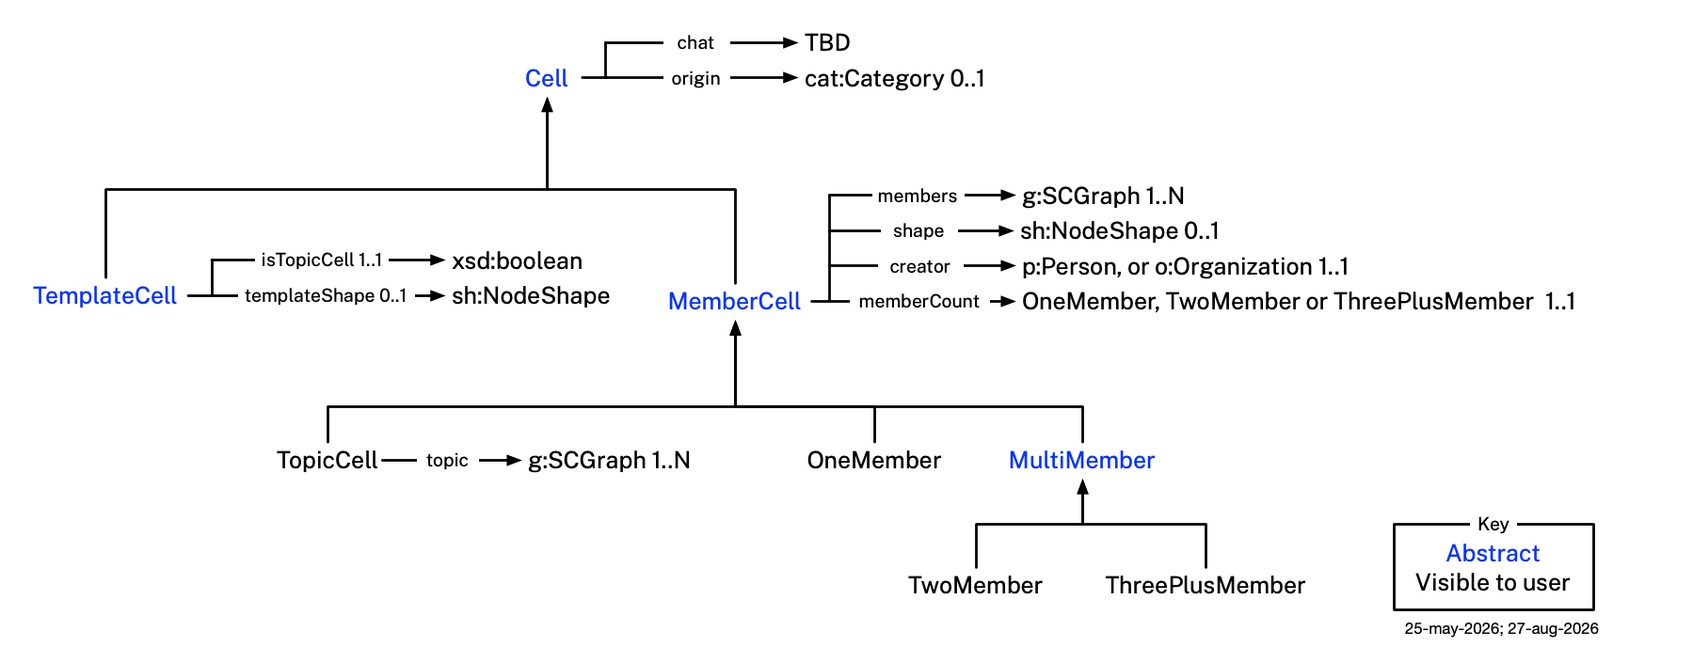
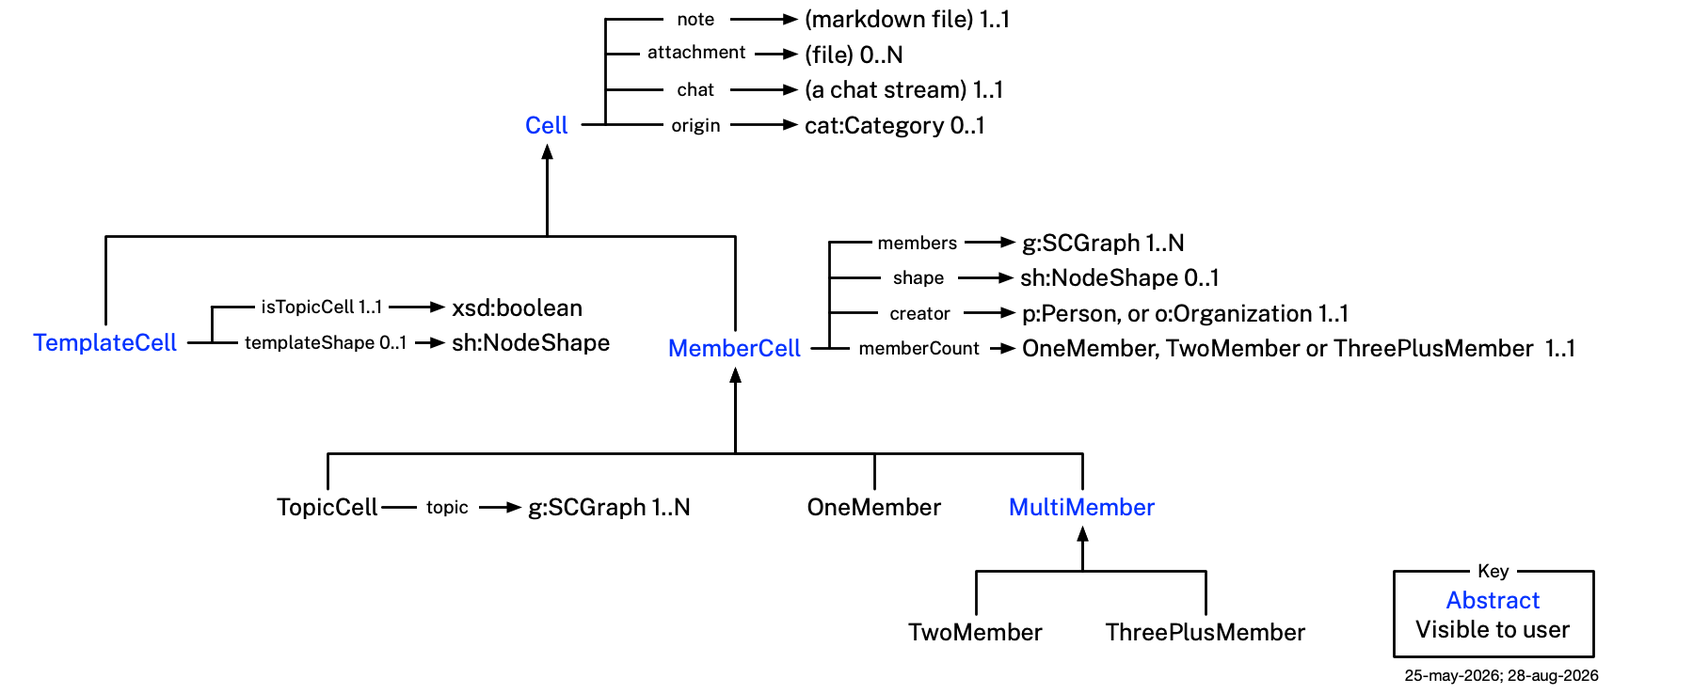
Simplify Files tab to flat Attachments; add c:note/c:attachment/c:chat to Cell Details
- Rename the "Files tab" concept to "Attachments tab" across README.md,
  APP-BEHAVIOR.md, EXAMPLE.md, and CLAUDE.md. A cell's attachments are
  now the plain files found directly inside its own folder, flat like
  email attachments -- no subfolder is ever counted as one, on disk or
  in the model. A subfolder is always either a descendant cell or a
  bare pass-through directory (CLAUDE.md's Check 11), neither shown in
  the Attachments tab.
- Fix README.md's missing "regular file system folder" definition that
  CLAUDE.md's Check 11 had long quoted but never actually existed in
  README.md verbatim.
- Add a new README.md "Cell Details" subsection collecting the three
  documentation-only, non-reified concepts drawn off Cell in
  images/cell-ontology/cell.png's diagram: c:note, c:attachment, and
  c:chat -- none is an actual property in cell.ttl. Update CLAUDE.md's
  Check 12/15 to match the current diagram (which now also fixes a
  stale "TBD" chat box-label reference).
- Rewrite cell.ttl's "Cell Folders and Content" comment block, which
  still described the old recursive "Files Tab" content model and had
  been missed by the earlier rename; bump cell.ttl to 3.40.0.

diff --git a/CLAUDE.md b/CLAUDE.md
@@ -156,7 +156,7 @@ http://www.example.org/mia/graphs/graph-<NN>
 
 **`:Self` IRI convention**: The user's own `persona:Person` individual always uses the IRI `:Self` across all of their graph files. All other people, groups, and organizations are assigned locally-minted named IRIs (e.g. `:Bob_Johnson`, `:Paula_Walker`, `:BHS`). `:Self` is a local IRI and is never exposed externally over the PDN, so there are no collisions between instances of the app. All graph files in the example live in Alice's own instance — some authored by Alice, others received from peers over PDN. In either case, `:Self` refers to Alice. When data arrives from a peer's instance (where that peer was `:Self` in their own instance), Alice's own instance assigns them a locally-minted identifier; once a PDN connection is established, that identifier resolves to or is replaced by their PDN ID.
 
-**Cell/Category split**: A **cell** is the atomic unit of a user's own instance tree: a filesystem folder holding exactly one cell-databook file, folder and file together forming one tree node — cells nest inside cells, forming the tree, with no RDF individual representing the folder as something separate from the cell. A cell's sole DataBook is its `cell-databook` (content: `memberCount`/`subject`/`members`/`topic`/`origin`); there is no sibling `category-databook` file. A cell's **content**, shown in the app's Files tab, is every file and plain subfolder found under its own folder, to any depth, except a nested folder that is itself a cell — such a **descendant cell** is a separate tree node, never counted as part of its ancestor's content even though it physically sits inside the ancestor's folder. The one remaining RDF-level trace of a cell's classification is `cell:origin`, asserted directly on the cell as a class value (e.g. `cat:Passport`) recording the `cat:Category` subclass the cell was originally instantiated as — at most one value (0..1), absent exactly when the cell is of the UserDefined category (identified precisely by its cell-databook filename's `(custom)` disambiguator) — read straight from the cell-databook's own explicit `mia.origin` YAML field when present, fixed at creation and never re-derived from the folder's current name, filename, or position (so a folder can be freely renamed or moved without touching it). `cell:Cell` carries no link back to its own folder at all — `cell.ttl` has no such property, since there is no folder individual distinct from the cell to hold one. **A folder holds at most one cell-databook, never more** — a folder is a cell exactly when it holds one such matching file (its filename an exact copy of the folder's own name), and a folder with none is just a plain filesystem folder, not a cell at all. Two cells can never share a folder: a `cell:Cell` is self-contained, and letting two cells share a folder would risk a single file in that folder becoming ambiguously part of both. A graph DataBook still carries no field pointing back at its cell at all — the cell is the one that asserts the `members`/`topic` link, and the graph id's `(<containing-cell>)` segment names the cell (the human-readable position) that cell-databook lives in directly, not via any RDF lookup. This keeps a cell's content self-contained (aside from the graph files it references) and independent of tree position, for PDN sync robustness: when a cell is shared between peers (e.g. a `TwoMember` cell between Alice and Bob), each peer can independently rearrange their own tree of cells — moving or renesting their cell under a different parent however they like — without ever touching the shared cell's content or identity, since moving a folder in the tree is a pure filesystem operation with no frontmatter field to edit on either side. The cell's own name, by contrast, is part of that shared content, not a per-peer-independent choice — see APP-BEHAVIOR.md's [Naming, Renaming, and Sharing](APP-BEHAVIOR.md#naming-renaming-and-sharing) section for how a shared name is kept unique within each peer's own tree (renaming, receipt-collision suffixing, and first-receipt auto-naming for two-member cells). The *canonical* side of the split (which classes have reusable starter content) lives entirely at the class level — see `category.ttl`'s `cat:templateCell` and the `cell-templates.ttl` file — there is no separate canonical-instance tree.
+**Cell/Category split**: A **cell** is the atomic unit of a user's own instance tree: a filesystem folder holding exactly one cell-databook file, folder and file together forming one tree node — cells nest inside cells, forming the tree, with no RDF individual representing the folder as something separate from the cell. A cell's sole DataBook is its `cell-databook` (content: `memberCount`/`subject`/`members`/`topic`/`origin`); there is no sibling `category-databook` file. A cell's **content** — its **attachments**, shown in the app's Attachments tab — is every plain file found directly inside its own folder; attachments are flat, like email attachments, with no subfolder nesting. Any subfolder found there is never itself an attachment — it's either a **descendant cell** (holds its own cell-databook) — a separate tree node, never counted as part of its ancestor's content even though it physically sits inside the ancestor's folder — or a bare pass-through directory with no databook of its own, existing purely to reach a descendant cell nested deeper still (see Check 11), and likewise never shown in the Attachments tab. The one remaining RDF-level trace of a cell's classification is `cell:origin`, asserted directly on the cell as a class value (e.g. `cat:Passport`) recording the `cat:Category` subclass the cell was originally instantiated as — at most one value (0..1), absent exactly when the cell is of the UserDefined category (identified precisely by its cell-databook filename's `(custom)` disambiguator) — read straight from the cell-databook's own explicit `mia.origin` YAML field when present, fixed at creation and never re-derived from the folder's current name, filename, or position (so a folder can be freely renamed or moved without touching it). `cell:Cell` carries no link back to its own folder at all — `cell.ttl` has no such property, since there is no folder individual distinct from the cell to hold one. **A folder holds at most one cell-databook, never more** — a folder is a cell exactly when it holds one such matching file (its filename an exact copy of the folder's own name), and a folder with none is just a plain filesystem folder, not a cell at all. Two cells can never share a folder: a `cell:Cell` is self-contained, and letting two cells share a folder would risk a single file in that folder becoming ambiguously part of both. A graph DataBook still carries no field pointing back at its cell at all — the cell is the one that asserts the `members`/`topic` link, and the graph id's `(<containing-cell>)` segment names the cell (the human-readable position) that cell-databook lives in directly, not via any RDF lookup. This keeps a cell's content self-contained (aside from the graph files it references) and independent of tree position, for PDN sync robustness: when a cell is shared between peers (e.g. a `TwoMember` cell between Alice and Bob), each peer can independently rearrange their own tree of cells — moving or renesting their cell under a different parent however they like — without ever touching the shared cell's content or identity, since moving a folder in the tree is a pure filesystem operation with no frontmatter field to edit on either side. The cell's own name, by contrast, is part of that shared content, not a per-peer-independent choice — see APP-BEHAVIOR.md's [Naming, Renaming, and Sharing](APP-BEHAVIOR.md#naming-renaming-and-sharing) section for how a shared name is kept unique within each peer's own tree (renaming, receipt-collision suffixing, and first-receipt auto-naming for two-member cells). The *canonical* side of the split (which classes have reusable starter content) lives entirely at the class level — see `category.ttl`'s `cat:templateCell` and the `cell-templates.ttl` file — there is no separate canonical-instance tree.
 
 **Terminology going forward**: the `cat:Category` class hierarchy (`category.ttl`) is a completely separate tree from a user's own instance tree — it's a recommended pattern (`cell:origin`, `cat:templateCell`) that a cell's tree position may optionally follow, not the tree itself. Describe the user's own instance tree only in terms of **cells** and their **descendant cells** — never "folders" or "categories" — except in `APP-BEHAVIOR.md`'s own section on persisting a cell in the filesystem, where "folder" is the correct literal term for the on-disk implementation detail. A heading, check, or script comment that names a filename/tree-position convention after "Category" (e.g. the retired "Category/Cell DataBook Filename Convention" name) is stale leftover from when a separate `category-databook` file type existed (see the Cell/Category split note above) — fix it to name the cell-level concept it actually describes.
 
@@ -403,9 +403,9 @@ for root in ['example/Cells']:
 
 If a `TOO MANY CELLS` issue is found, move the extra file(s) out to their own new folder — a folder may hold only one cell-databook, so a second cell belongs in its own new folder, not alongside the first. An empty/placeholder folder is not necessarily an error — flag it to the user rather than deleting it, since it may be a deliberate placeholder for content not yet added. Cell-databook files routinely carry substantial body content (one `### Graph NN` section per embedded graph) — this is expected and not itself a violation of this check, which only validates folder nesting, not file size or content.
 
-**Check 12 — `cell.ttl` matches `images/cell-ontology/cell.png`**: `Cell` shows only `origin` (to a `cat:Category` box, drawn **0..1**, matching `cell:origin`'s actual cardinality). `cell:origin`'s range is the classificatory `cat:Category` — there is no tree-position class for it to be confused with, so it does not conflict with `cell:Cell`'s "no link to a tree position" design (see `cell:Cell`'s own `rdfs:comment`) — it records what kind of thing a cell is, not where it lives, and needs no `owl:imports category.ttl` (referenced by name only, mirroring `cell:creator`'s identical pattern). The diagram shows a `chat` arrow off `Cell` (to a box literally labeled "TBD") with no counterpart in `cell.ttl` — this is a deliberate, accepted exception to 12a/12b below: README.md already describes `chat`'s intended semantics ("optional path to chat stream") as a planned property, but `cell.ttl` itself has no `cell:chat` declaration yet. No `note` arrow appears off `Cell` — `cell:note` doesn't exist. `Cell` (abstract, blue) carries `origin` only (plus the still-open `chat` arrow above). `Cell` splits into two disjoint kinds (`owl:disjointWith` — a cell is always exactly one, never both): `TemplateCell` (abstract, blue, a reusable class-level template) carries `isTopicCell` (to an `xsd:boolean` box) and `templateShape` (to a `sh:NodeShape` box, 0..1); `MemberCell` (abstract, blue, an actual cell instantiated in a user's own tree) carries `members` (to a `g:SCGraph` box, 1..N, cardinality varying by member count — see Check 17), `shape` (to a `sh:NodeShape` box, 0..1), `creator` (to a union of `p:Person`/`o:Organization`, 1..1), and `memberCount` (to `OneMember`/`TwoMember`/`ThreePlusMember`, 1..1). There is no `subject` arrow off `MemberCell` — `cell:subject` was removed (a cell's subject is now derived from `members`/`topic` rather than stored). Three classes hang directly off `MemberCell` as its children: `OneMember` (concrete, black, no arrows of its own), `MultiMember` (abstract, blue, no arrows of its own — further splitting into `TwoMember`/`ThreePlusMember`, neither of which carries arrows either), and `TopicCell` (concrete, black — a mixin that combines with whichever of `OneMember`/`TwoMember`/`ThreePlusMember` a real cell already has, not a fourth alternative to them), which alone carries `topic` (to a `g:SCGraph` box, 1..N — required, at least one, no upper bound, once a cell is typed `TopicCell` at all). `TemplateCell` has no subclasses of its own, and no individual is ever typed both `TemplateCell` and `MemberCell` (or any `MemberCell`-lineage class, including `TopicCell`) — every template individual in `cell-templates.ttl` is typed solely `TemplateCell`. No arrow points from `Cell`, `TemplateCell`, or `MemberCell` to any tree-position box at all — `cell:origin`'s arrow points to `cat:Category` instead, the classificatory hierarchy. This diagram is the ontology-level (not example-tree) picture of `cell:Cell`'s structure — the member-composition hierarchy and its content-linking properties. Unlike Check 10 (example diagrams, where the diagram always wins), this check does not presume which side is authoritative when the two disagree — surface the discrepancy and ask:
+**Check 12 — `cell.ttl` matches `images/cell-ontology/cell.png`**: `Cell` shows only `origin` (to a `cat:Category` box, drawn **0..1**, matching `cell:origin`'s actual cardinality). `cell:origin`'s range is the classificatory `cat:Category` — there is no tree-position class for it to be confused with, so it does not conflict with `cell:Cell`'s "no link to a tree position" design (see `cell:Cell`'s own `rdfs:comment`) — it records what kind of thing a cell is, not where it lives, and needs no `owl:imports category.ttl` (referenced by name only, mirroring `cell:creator`'s identical pattern). The diagram shows three arrows off `Cell` with no counterpart in `cell.ttl` — `note` (to a placeholder box, `(markdown file) 1..1`), `attachment` (to a placeholder box, `(file) 0..N`), and `chat` (to a placeholder box, `(a chat stream) 0..1`) — this is a deliberate, accepted exception to 12a/12b below: README.md already describes all three properties' intended semantics (see the Cell Details section) as planned, but `cell.ttl` itself has no `cell:note`/`cell:attachment`/`cell:chat` declaration yet — none of the three is ever reified as a triple in any real graph. `Cell` (abstract, blue) carries `origin` only (plus the still-open `note`/`attachment`/`chat` arrows above). `Cell` splits into two disjoint kinds (`owl:disjointWith` — a cell is always exactly one, never both): `TemplateCell` (abstract, blue, a reusable class-level template) carries `isTopicCell` (to an `xsd:boolean` box) and `templateShape` (to a `sh:NodeShape` box, 0..1); `MemberCell` (abstract, blue, an actual cell instantiated in a user's own tree) carries `members` (to a `g:SCGraph` box, 1..N, cardinality varying by member count — see Check 17), `shape` (to a `sh:NodeShape` box, 0..1), `creator` (to a union of `p:Person`/`o:Organization`, 1..1), and `memberCount` (to `OneMember`/`TwoMember`/`ThreePlusMember`, 1..1). There is no `subject` arrow off `MemberCell` — `cell:subject` was removed (a cell's subject is now derived from `members`/`topic` rather than stored). Three classes hang directly off `MemberCell` as its children: `OneMember` (concrete, black, no arrows of its own), `MultiMember` (abstract, blue, no arrows of its own — further splitting into `TwoMember`/`ThreePlusMember`, neither of which carries arrows either), and `TopicCell` (concrete, black — a mixin that combines with whichever of `OneMember`/`TwoMember`/`ThreePlusMember` a real cell already has, not a fourth alternative to them), which alone carries `topic` (to a `g:SCGraph` box, 1..N — required, at least one, no upper bound, once a cell is typed `TopicCell` at all). `TemplateCell` has no subclasses of its own, and no individual is ever typed both `TemplateCell` and `MemberCell` (or any `MemberCell`-lineage class, including `TopicCell`) — every template individual in `cell-templates.ttl` is typed solely `TemplateCell`. No arrow points from `Cell`, `TemplateCell`, or `MemberCell` to any tree-position box at all — `cell:origin`'s arrow points to `cat:Category` instead, the classificatory hierarchy. This diagram is the ontology-level (not example-tree) picture of `cell:Cell`'s structure — the member-composition hierarchy and its content-linking properties. Unlike Check 10 (example diagrams, where the diagram always wins), this check does not presume which side is authoritative when the two disagree — surface the discrepancy and ask:
 
-- **12a** — every property arrow shown off `Cell` (`origin`) has a corresponding `cell:` property in `cell.ttl` with `rdfs:domain cell:Cell` (the diagram's `chat` arrow is the one accepted exception — see above: it's a planned property, not yet added to `cell.ttl`). Every arrow off `TemplateCell` (`isTopicCell`, `templateShape`) has `rdfs:domain cell:TemplateCell`; every arrow off `MemberCell` (`shape`, `creator`, `memberCount`, `members`) has `rdfs:domain cell:MemberCell`; the one arrow off `TopicCell` (`topic`) has `rdfs:domain cell:TopicCell`. No `subject` arrow should appear off `MemberCell` at all — `cell:subject` doesn't exist (see Check 12's own note above). `OneMember` and `MultiMember` should show no arrows of their own — neither carries a property. Each arrow's target type in the diagram must match the property's `rdfs:range` — `members`'s and `topic`'s are both `g:SCGraph`, `isTopicCell`'s is `xsd:boolean`, `creator`'s is the union of `p:Person`/`o:Organization`, `memberCount`'s is `cell:MemberCell` itself (value is the concrete subclass, not `xsd:string`), `origin`'s is `cat:Category` itself (value is the concrete leaf subclass, e.g. `cat:Others`, not `xsd:string` — the same class-value-punning pattern as `memberCount`), `templateShape`'s and `shape`'s are both `sh:NodeShape` — two separate arrows from two different boxes (`TemplateCell` vs `MemberCell`) to what may be drawn as the same target, since they're two distinct properties, not one property under two names. No `note` arrow should appear off `Cell` at all.
+- **12a** — every property arrow shown off `Cell` (`origin`) has a corresponding `cell:` property in `cell.ttl` with `rdfs:domain cell:Cell` (the diagram's `note`, `attachment`, and `chat` arrows are the three accepted exceptions — see above: all three are planned properties, not yet added to `cell.ttl`). Every arrow off `TemplateCell` (`isTopicCell`, `templateShape`) has `rdfs:domain cell:TemplateCell`; every arrow off `MemberCell` (`shape`, `creator`, `memberCount`, `members`) has `rdfs:domain cell:MemberCell`; the one arrow off `TopicCell` (`topic`) has `rdfs:domain cell:TopicCell`. No `subject` arrow should appear off `MemberCell` at all — `cell:subject` doesn't exist (see Check 12's own note above). `OneMember` and `MultiMember` should show no arrows of their own — neither carries a property. Each arrow's target type in the diagram must match the property's `rdfs:range` — `members`'s and `topic`'s are both `g:SCGraph`, `isTopicCell`'s is `xsd:boolean`, `creator`'s is the union of `p:Person`/`o:Organization`, `memberCount`'s is `cell:MemberCell` itself (value is the concrete subclass, not `xsd:string`), `origin`'s is `cat:Category` itself (value is the concrete leaf subclass, e.g. `cat:Others`, not `xsd:string` — the same class-value-punning pattern as `memberCount`), `templateShape`'s and `shape`'s are both `sh:NodeShape` — two separate arrows from two different boxes (`TemplateCell` vs `MemberCell`) to what may be drawn as the same target, since they're two distinct properties, not one property under two names. No `note` arrow should appear off `Cell` at all.
 - **12b** — every `cell:` property defined in `cell.ttl` appears as an arrow in the diagram, under the box matching its domain — `Cell`, `TemplateCell`, `MemberCell`, or `TopicCell` (catches new properties added to the ttl but never drawn, or drawn under the wrong box).
 - **12c** — the class hierarchy `Cell` → `TemplateCell`/`MemberCell` (both abstract, `owl:disjointWith` one another), and separately `MemberCell` → `OneMember`, `MemberCell` → `MultiMember` (abstract) → `TwoMember`/`ThreePlusMember`, and `MemberCell` → `TopicCell`, shown in the diagram matches `cell.ttl`'s actual `rdfs:subClassOf` relationships (by class local name, not just position). `OneMember`, `MultiMember`, and `TopicCell` must all be drawn as direct children of `MemberCell`, not of `Cell` — `TopicCell` in particular is a mixin sibling of `OneMember`/`MultiMember`, not a fourth member-count alternative folded into that same branch.
 - **12d** — `cell.png` draws only the bare class local names (`OneMember`, `TwoMember`, `ThreePlusMember`, `TopicCell`) as box labels; no `cell:label` display string appears anywhere in this diagram. `cell:label` wording is instead verified where it's actually drawn — in the 11 example diagrams (Check 10f) and in `cat-cell-graph.png`/`images/folder-mapping.png`'s border-style legend entries (Checks 15/20). `cell:label` itself is a real class-level default display name defined in `cell.ttl` — `Cell`, `TemplateCell`, `MemberCell`, and `MultiMember` are all abstract and carry no `cell:label` of their own; `TopicCell`, though concrete, carries no `cell:label` either, since it's never solely responsible for a cell box's border style (Check 10f) — that's still driven entirely by the cell's member-count class.
@@ -431,7 +431,7 @@ If a `TOO MANY CELLS` issue is found, move the extra file(s) out to their own ne
   - `BHS` (tan/`Person` fill, black text — origin `(Affiliations)` ≠ folder name, rounded corners/double border (`cell:ThreePlusMember`), three circles (Self white, Bob green, BHS green — its three `c:members`) plus one green square (BHS's own organization profile, linked via `cell:topic`) — illustrative only, not tied to real cell-01 data (which has no `cell:topic` value at all, see Check 18)
   - `People` (tan/`Person` fill, green text — no origin parenthetical shown, correctly compressed since the origin's label already equals the folder name, square corners/single border (`cell:OneMember`), one white "Self" circle, no squares)
 
-  Each cell box shows no icon of any kind — no folder icon and no separate "chat" icon (see Check 12's `cell:chat` planned-property note, which concerns `cell.png` only, not this diagram) — just the filled box itself. Re-verify each box's circles/squares remain a valid illustration of the properties and cardinalities described in the Cell and Graph Ontology sections of `README.md` after any change to those properties.
+  Each cell box shows no icon of any kind — no folder icon and no separate "note", "attachment", or "chat" icon (see Check 12's `cell:note`/`cell:attachment`/`cell:chat` planned-property note, which concerns `cell.png` only, not this diagram) — just the filled box itself. Re-verify each box's circles/squares remain a valid illustration of the properties and cardinalities described in the Cell and Graph Ontology sections of `README.md` after any change to those properties.
 
 **Check 16 — IRI roots: `mee.foundation/ontologies` for foundational files, `www.example.org` for example data**: Every foundational ontology and SHACL shapes file — `persona.ttl`, `graph.ttl`, `cell.ttl`, `category.ttl`, `cell-templates.ttl`, `pdn-identity.ttl`, `organization.ttl`, `persona-templates.ttl`, their `*-shacl.ttl` companions (including `cell-templates-shacl.ttl`), and the per-template files in `shacl/` — must declare its `owl:Ontology` IRI under `http://mee.foundation/ontologies/`. There is no separate canonical category/cell DataBook tree to check — the canonical tree's IRI roots are covered by `category.ttl`/`cell-templates.ttl` themselves. Every DataBook under `example/Cells/` (excluding `under-development/`) represents Alice's own example instance data, so both its own `id:` and every `mia.graphs[].id` value it carries must be grounded under `http://www.example.org/` — `https://` is deliberately rejected here, not just accepted alongside it, since every identifier in the example tree (cell ids and graph ids alike) was standardized on the plain `http://` scheme for consistency; a stray `https://` is exactly the kind of drift this check exists to catch. Run:
 

diff --git a/APP-BEHAVIOR.md b/APP-BEHAVIOR.md
@@ -50,9 +50,9 @@ A cell's own **name** — its filesystem folder's own name — is a separate, pu
 
 <p align="center"><img src="images/folder-mapping.png" alt="Cells, categories, and graphs"></p>
 
-- Every file and non-cell subfolder found inside a cell's folder — to any depth — that is not itself a descendant cell (see below) is that cell's own content, shown in the app's Files tab, and travels with the cell when it's shared. A nested folder that is itself a cell (i.e. holds its own cell DataBook) is a **descendant cell** — a separate node in the tree — and is never counted as part of its ancestor's content, even though it physically sits inside the ancestor's folder.
+- Every plain file found directly inside a cell's own folder is that cell's own content — its **attachments**, shown in the app's **Attachments tab** — and travels with the cell when it's shared. Attachments are flat: no subfolder is ever counted as one. A subfolder found inside a cell's own folder is always either (a) a **descendant cell** (i.e. holds its own cell DataBook) — a separate node in the tree, never counted as part of its ancestor's content even though it physically sits inside the ancestor's folder — or (b) a bare pass-through directory with no DataBook of its own, existing only to reach a descendant cell nested deeper still (see CLAUDE.md's Check 11); neither kind ever appears in the Attachments tab. On narrow/mobile layouts the tab shows only its 📎 icon, with no text label, since "Attachments" doesn't fit.
 - One special file is the cell's **cell DataBook** (a `.databook.md` file with `type: cell-databook`) — see above for why a folder can never hold more than one. A cell DataBook's *filename* matches its own folder's name verbatim, with each space replaced by a hyphen (spaces are illegal inside a raw Turtle IRI), and its `title:` field is exactly the folder's own name — the cell's name — updated whenever the folder is renamed. Its `id`, by contrast, is a flat, opaque `cell-<NN>` value independent of the folder name (see CLAUDE.md's Check 9), the same pattern graph ids already use.
-- Another special file acts as the cell's **note**, shown in the app's Note tab. A cell has exactly one note, never more — this so-called *folder note* is stored as a single file named `X.md` inside the `X` folder, and a folder can hold no second `.md` file playing this role. Using the same name as the folder matches the convention used by PKM (Personal Knowledge Management) tools such as Obsidian (using the Folder Notes plugin), Logseq, Foam and others — including the same freeform, vault-wide linking these tools support: a folder note may link to any other note anywhere in the user's tree of cells, not just within its own cell. Once a link's target has actually been instantiated as a cell (see [Wikilink-Triggered Cell Creation](#wikilink-triggered-cell-creation) below for the one case where it hasn't been yet), the link resolves by that target cell's own stable id — not by matching its display text. That id must actually be globally unique across every user's independent tree, not merely unique within one person's own tree: the small sequential `cell-<NN>` convention this repo's own example data uses (CLAUDE.md's Check 9) is deliberately simple for one worked example living entirely under a single shared example domain, and was never meant to stay unique once real cells belong to many different users' independent instances. A real cell's id therefore needs actual entropy: a random (v4) UUID, generated locally by the creating device/app at the moment of cell creation, with no central coordination or registry of any kind — consistent with [Storage](#storage) above (no cell, and nothing about it, is ever held by a cloud provider or third party) and with `:Self`'s own purely-local identifier convention (see CLAUDE.md's [`:Self` IRI convention](CLAUDE.md#key-architectural-patterns)). A random UUID carries no embedded metadata — unlike a time-ordered (v7) UUID, which would leak a cell's creation time to anyone who later sees its id, including a peer the cell gets shared with. This keeps the same flat, opaque shape Check 9 already establishes (never derived from the cell's own name or category). Concretely, a resolved link is written using the alias syntax these same PKM tools already support — `[[7f3a9c2e-…|foo]]`, id before the pipe, display text after — rather than inventing new syntax; an unresolved link with no target yet (see below) is simply `[[foo]]`, no pipe at all. A link's own display text travels with the cell's note when the cell is shared, but resolution never falls back to text-matching. This matters because cell names are only unique among siblings, not globally (see [Naming, Renaming, and Sharing](#naming-renaming-and-sharing) above) — a recipient's own tree can easily contain an unrelated cell that happens to share a display name with the intended target, and id-based resolution is what keeps a link from ever silently jumping to that wrong cell instead. What id-based resolution can't fix is the linked-to cell itself not traveling with the note: if the target lies outside this cell's own boundary (i.e. it isn't part of this cell's own Files-tab content or its own folder note) and the recipient doesn't independently have a cell carrying that id — because it was never shared with them, or they organize their tree completely differently — the link simply won't resolve on their side; it fails closed (inert, shown as unresolved) rather than open (silently pointing somewhere else). This is an accepted limitation of cross-cell linking, not a defect.
+- Another special file acts as the cell's **note**, shown in the app's Note tab. A cell has exactly one note, never more — this so-called *folder note* is stored as a single file named `X.md` inside the `X` folder, and a folder can hold no second `.md` file playing this role. Using the same name as the folder matches the convention used by PKM (Personal Knowledge Management) tools such as Obsidian (using the Folder Notes plugin), Logseq, Foam and others — including the same freeform, vault-wide linking these tools support: a folder note may link to any other note anywhere in the user's tree of cells, not just within its own cell. Once a link's target has actually been instantiated as a cell (see [Wikilink-Triggered Cell Creation](#wikilink-triggered-cell-creation) below for the one case where it hasn't been yet), the link resolves by that target cell's own stable id — not by matching its display text. That id must actually be globally unique across every user's independent tree, not merely unique within one person's own tree: the small sequential `cell-<NN>` convention this repo's own example data uses (CLAUDE.md's Check 9) is deliberately simple for one worked example living entirely under a single shared example domain, and was never meant to stay unique once real cells belong to many different users' independent instances. A real cell's id therefore needs actual entropy: a random (v4) UUID, generated locally by the creating device/app at the moment of cell creation, with no central coordination or registry of any kind — consistent with [Storage](#storage) above (no cell, and nothing about it, is ever held by a cloud provider or third party) and with `:Self`'s own purely-local identifier convention (see CLAUDE.md's [`:Self` IRI convention](CLAUDE.md#key-architectural-patterns)). A random UUID carries no embedded metadata — unlike a time-ordered (v7) UUID, which would leak a cell's creation time to anyone who later sees its id, including a peer the cell gets shared with. This keeps the same flat, opaque shape Check 9 already establishes (never derived from the cell's own name or category). Concretely, a resolved link is written using the alias syntax these same PKM tools already support — `[[7f3a9c2e-…|foo]]`, id before the pipe, display text after — rather than inventing new syntax; an unresolved link with no target yet (see below) is simply `[[foo]]`, no pipe at all. A link's own display text travels with the cell's note when the cell is shared, but resolution never falls back to text-matching. This matters because cell names are only unique among siblings, not globally (see [Naming, Renaming, and Sharing](#naming-renaming-and-sharing) above) — a recipient's own tree can easily contain an unrelated cell that happens to share a display name with the intended target, and id-based resolution is what keeps a link from ever silently jumping to that wrong cell instead. What id-based resolution can't fix is the linked-to cell itself not traveling with the note: if the target lies outside this cell's own boundary (i.e. it isn't part of this cell's own Attachments-tab content or its own folder note) and the recipient doesn't independently have a cell carrying that id — because it was never shared with them, or they organize their tree completely differently — the link simply won't resolve on their side; it fails closed (inert, shown as unresolved) rather than open (silently pointing somewhere else). This is an accepted limitation of cross-cell linking, not a defect.
 
 ### Wikilink-Triggered Cell Creation
 

diff --git a/README.md b/README.md
@@ -11,7 +11,7 @@ The following **domain ontologies** model claims about people, organizations, an
   - **AgentOntology** — agents and their properties (imported transitively via PersonOntology)
 - **Organization ontology** — models organizations (companies, government agencies, non-profits, etc.) 
 
-Also included are the Category, Cell and Graph **metadata ontologies**. A *cell* is the atomic unit of information. A cell is implemented as a filesystem folder holding exactly one cell DataBook file and potentially other (non-cell) files and folders. The parent folder and databook file together forming one atomic tree node. Cells nest inside cells, forming a tree. Cells have different types, called *Categories* described in the category ontology. A cell contains various kinds of content including markdown notes, chat streams, and other file attachments. It also contains structured information blocks (called *graphs*) whose schemas differ based on the cell's category. 
+Also included are the Category, Cell and Graph **metadata ontologies**. A *cell* is the atomic unit of information. A cell is implemented as a filesystem folder holding exactly one cell DataBook file and potentially other (non-cell) attachments. The parent folder and databook file together forming one atomic tree node. Cells nest inside cells, forming a tree. Cells have different types, called *Categories* described in the category ontology. A cell contains various kinds of content including markdown notes, chat streams, and other file attachments. It also contains structured information blocks (called *graphs*) whose schemas differ based on the cell's category. 
 
 Throughout this document we use these short-hands:
 
@@ -172,9 +172,9 @@ A regular cell may be empty or hold various kinds of information, organized into
 * **Members** tab:
   * Structured information (fields and values) about the members of the cell.
 * **Note** tab:
-  * Exactly one Markdown document about the cell. It may be blank. It may be linked to any number of other Markdown notes anywhere in the user's own tree of cells.
-* **Files** tab:
-  * An arbitrary number of files and sub-folders.
+  * A Markdown document about the cell. It may be blank. It may be linked to any number of other Markdown notes anywhere in the user's own tree of cells.
+* **Attachments** tab (📎):
+  * A flat set of file attachments — no sub-folders, like email attachments.
 * **Chat** tab:
   * A chat stream shared with all members.
 
@@ -203,13 +203,21 @@ A cell is an atomic unit of information that the app manages for the user. This 
 
 <p align="center"><img src="images/cell-ontology/cell.png" alt="Cell hierarchy"></p>
 
-A cell's **files content** — everything shown in the app's **Files tab** for that cell — is every file and plain subfolder found under its own folder, to any depth, except (1) a nested folder that is itself a cell. Such a nested folder is a **descendant cell**: a separate node in the tree of cells, never counted as part of its ancestor's content even though it physically sits inside the ancestor's folder, and (2) the cell's own Markdown folder note — exactly one per cell; it is displayed in the **Note tab** for that cell (not the Files tab). Clicking a link in that note to a note that doesn't exist yet creates a new, origin-less cell for it — see [Wikilink-Triggered Cell Creation](APP-BEHAVIOR.md#wikilink-triggered-cell-creation) in APP-BEHAVIOR.md.
+A cell's own Markdown folder note is displayed in the **Note tab** (not the Attachments tab); clicking a link in it to a note that doesn't exist yet creates a new, origin-less cell for it — see [Wikilink-Triggered Cell Creation](APP-BEHAVIOR.md#wikilink-triggered-cell-creation) in APP-BEHAVIOR.md. See [Cell Details](#cell-details) below for what counts as a cell's attachments, shown in the app's **Attachments tab**.
 
 #### Cell Properties
 
 - **`c:origin`** — The `cat:Category` subclass this cell was originally instantiated as, else nil. For one of the four templated classes (`cat:Passport`, `cat:BirthCertificate`, `cat:DriversLicense`, `cat:MedicalAppointment`), this is literally the class whose `c:TemplateCell` template was cloned into this cell via [Lazy Instantiation](APP-BEHAVIOR.md#lazy-instantiation) (APP-BEHAVIOR.md); for any other cell, it's simply the category the cell was created to represent, asserted directly with no template involved. Either way the value is fixed at that point — it is not re-derived from the folder's current name, so it needs no update if the folder is later renamed or moved elsewhere in the tree. When a cell is shared with another member, the recipient's app can look at this value (if not nil) and use it as a hint as to which folder in the recipient's own tree it should be filed under. Domain `c:Cell`, range `cat:Category` (referenced by name, no `owl:imports`), at most one value (0..1) — see [Cell Ontology File](#cell-ontology-file) below.
 
-- **`c:chat`** — optional path to chat stream. Aspirational: shown in `images/cell-ontology/cell.png`'s diagram and described here for intended semantics, but not yet defined as an actual property in `cell.ttl` (see `CLAUDE.md`'s Check 12 for this open discrepancy).
+#### Documentation-only Properties
+
+Three more concepts appear off `Cell` in `images/cell-ontology/cell.png`'s diagram, described here for their intended semantics, but documentation only — none is an actual property declared in `cell.ttl`, and none is ever reified as a triple in any real graph (see `CLAUDE.md`'s Check 12 for this open, accepted discrepancy):
+
+- **`c:note`** — a cell's single Markdown folder note, shown in the app's **Note tab**, 1..1. See [Introduction to Cells](#introduction-to-cells) above for the folder-note convention (linking, sharing, PKM-vault compatibility) and [Wikilink-Triggered Cell Creation](APP-BEHAVIOR.md#wikilink-triggered-cell-creation) in APP-BEHAVIOR.md.
+
+- **`c:attachment`** — a cell's flat set of file attachments, shown in the app's **Attachments tab** (📎), 0..N. Attachments are the plain files found directly inside a cell's own folder, excluding (1) any subfolder — always either a **descendant cell** (a nested folder that is itself a cell, holding its own cell DataBook: a separate node in the tree of cells, never counted as part of its ancestor's content even though it physically sits inside the ancestor's folder) or a bare pass-through directory with no DataBook of its own (a folder without a matching cell DataBook is simply a regular file system folder, not a cell — even if it contains nested cells of its own — existing only to reach a descendant cell nested deeper still; see CLAUDE.md's Check 11) — and (2) the cell's own Markdown folder note — exactly one per cell; it is displayed in the **Note tab** for that cell (not the Attachments tab). Attachments are flat, like email attachments: no subfolder is ever counted as one, on disk or in the model.
+
+- **`c:chat`** — chat stream.
 
 ### TemplateCell (Template Cell)
 

diff --git a/EXAMPLE.md b/EXAMPLE.md
@@ -48,7 +48,7 @@ Alice has a checking account (and associated debit care) at Citibank. In our exa
 
 ### Birth Certificate and Driver's License
 
-Alice was born in Texas and their vital records department issued a birth certificate about Alice. Alice has manually entered the information from her birth certificate ([graph 24](<example/Cells/Government/State/Texas Vital Records/Texas Vital Records(birth-certificate).databook.md#graph-24>)) and has included a scan of her paper birth certificate as content in the *Texas Vital Records* cell's Files tab (not shown). She recently moved to Paradise, California, and was issued a license by the California DMV. Alice manually entered the information from her plastic license card ([graph 15](<example/Cells/Government/State/California DMV/California DMV(drivers-license).databook.md#graph-15>)) and included a scan of it as content in the *California DMV* cell's Files tab (not shown).
+Alice was born in Texas and their vital records department issued a birth certificate about Alice. Alice has manually entered the information from her birth certificate ([graph 24](<example/Cells/Government/State/Texas Vital Records/Texas Vital Records(birth-certificate).databook.md#graph-24>)) and has included a scan of her paper birth certificate as content in the *Texas Vital Records* cell's Attachments tab (not shown). She recently moved to Paradise, California, and was issued a license by the California DMV. Alice manually entered the information from her plastic license card ([graph 15](<example/Cells/Government/State/California DMV/California DMV(drivers-license).databook.md#graph-15>)) and included a scan of it as content in the *California DMV* cell's Attachments tab (not shown).
 
 <p align="center"><img src="example/images/gov-state.png" alt="Government — State cells"></p>
 
